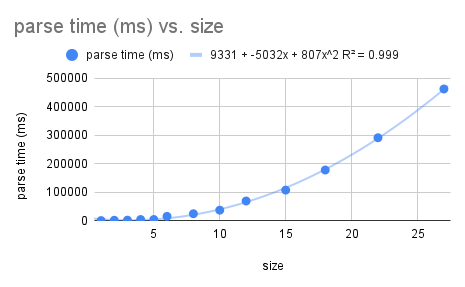
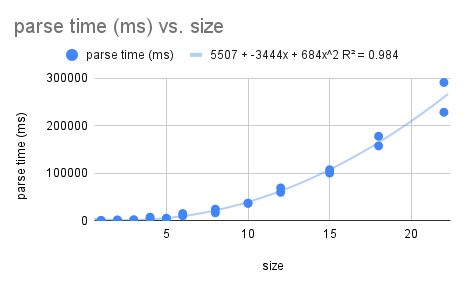
Updates

diff --git a/generate-problems.js b/generate-problems.js
@@ -2,7 +2,7 @@ import { writeFileSync } from "fs";
 
 const NUM_LINES_IN_CODE_SEG = 10000;
 
-for (let size = 1; size < 40; size = Math.ceil(size * 1.2)) {
+for (let size = 1; size < 25; size = Math.ceil(size * 1.2)) {
   let file = [
     "---",
     "title: Test",
